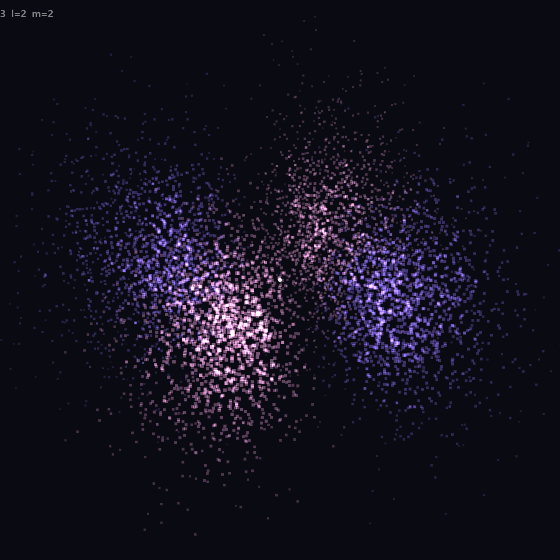
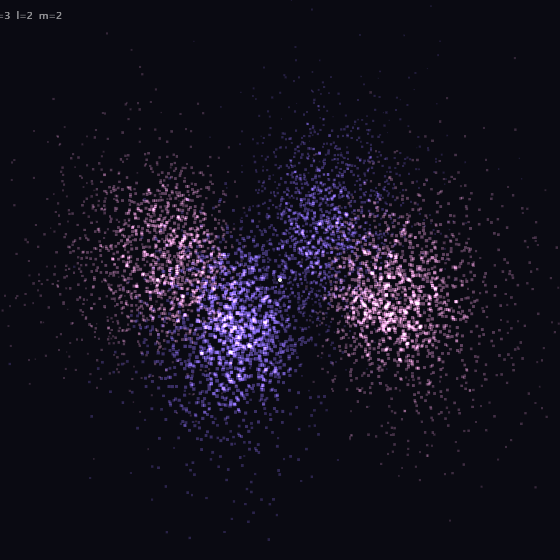
feat: rework Galton Board and Electron Cloud against the fuller spec
Galton Board gains a second_funnel toggle: half the balls drop from an offset
column, shifting one binomial sideways so the pile becomes genuinely bimodal.
The overlaid prediction becomes the mixture of the two binomials, so it still
matches what the board is doing. burst is renamed drop_batch and now releases a
proper 250-ball batch.

Electron Cloud now exposes n, l and m as independent knobs that clamp against
each other (l < n, m <= l), so only states that exist can be selected. The
hand-written radial cases are replaced by the generalised Laguerre recurrence,
giving every (n, l) in range its correct number of radial nodes, and the angular
part is extended through l = 4. slice_view renders a cross-section of |psi|^2
through the plane containing the quantisation axis as a contour map, cached on
state so it is not resampled every frame.

diff --git a/src/App.tsx b/src/App.tsx
@@ -10275,10 +10275,14 @@ export default function App() {
               const memory = Math.max(0, Math.min(1, ms.bin_memory ?? 0.85));
 
               const st = (galtonStateRef.current[layer.id] ||= { acts: {}, parts: [], bins: null, spawnAcc: 0, invertT: -99 });
-              if (actionFired(st.acts, 'burst', Number(ms.burst ?? 0))) st.burstN = (st.burstN ?? 0) + 90;
+              if (actionFired(st.acts, 'burst', Number(ms.drop_batch ?? 0))) st.burstN = (st.burstN ?? 0) + 250;
+              if (actionFired(st.acts, 'fun2', Number(ms.second_funnel ?? 0))) st.second = !st.second;
               if (actionFired(st.acts, 'inv', Number(ms.invert_gravity ?? 0))) st.invertT = nowSec + 2.5;
               const inverted = nowSec < st.invertT;
 
+              // A second funnel drops half the balls from an offset column, which shifts
+              // one binomial sideways and makes the pile genuinely bimodal.
+              const offCols = -Math.max(2, Math.round(rows * 0.34));
               const nBins = rows + 1;
               if (!st.bins || st.bins.length !== nBins) st.bins = new Float32Array(nBins);
 
@@ -10298,7 +10302,8 @@ export default function App() {
               st.spawnAcc -= toSpawn;
               if (st.burstN > 0) { const b = Math.min(st.burstN, 14); toSpawn += b; st.burstN -= b; }
               for (let i = 0; i < toSpawn && st.parts.length < 1400; i++) {
-                  st.parts.push({ x: cx + (Math.random() - 0.5) * colGap * 0.12, y: topY - rowGap * 0.8, vx: 0, vy: 0, row: 0, done: false });
+                  const off = st.second && Math.random() < 0.5 ? offCols : 0;
+                  st.parts.push({ x: cx + (off + (Math.random() - 0.5) * 0.12) * colGap, y: topY - rowGap * 0.8, vx: 0, vy: 0, row: 0, done: false });
               }
 
               // The physical point: each peg is one Bernoulli trial, so the pile of
@@ -10340,6 +10345,20 @@ export default function App() {
 
               ctx.fillStyle = cBg; ctx.fillRect(0, 0, targetW, targetH);
 
+              // funnel mouths
+              ctx.strokeStyle = cPart; ctx.globalAlpha = 0.5; ctx.lineWidth = 2 * sc;
+              const mouths = st.second ? [0, offCols] : [0];
+              for (const mo of mouths) {
+                  const mx = cx + mo * colGap, my = topY - rowGap * 1.25;
+                  ctx.beginPath();
+                  ctx.moveTo(mx - colGap * 0.9, my - rowGap * 0.55);
+                  ctx.lineTo(mx - colGap * 0.16, my);
+                  ctx.lineTo(mx + colGap * 0.16, my);
+                  ctx.lineTo(mx + colGap * 0.9, my - rowGap * 0.55);
+                  ctx.stroke();
+              }
+              ctx.globalAlpha = 1;
+
               // pegs
               ctx.fillStyle = cPeg;
               ctx.globalAlpha = 0.55;
@@ -10367,11 +10386,17 @@ export default function App() {
               ctx.beginPath();
               const pRight = 0.5 + bias * 0.45;
               const lnFact = (n: number) => { let v = 0; for (let k = 2; k <= n; k++) v += Math.log(k); return v; };
+              const binom = (k: number) => {
+                  if (k < 0 || k > rows) return 0;
+                  return Math.exp(lnFact(rows) - lnFact(k) - lnFact(rows - k)
+                      + k * Math.log(pRight + 1e-9) + (rows - k) * Math.log(1 - pRight + 1e-9));
+              };
               let maxPk = 0;
               const pk: number[] = [];
               for (let i = 0; i < nBins; i++) {
-                  const lp = lnFact(rows) - lnFact(i) - lnFact(rows - i) + i * Math.log(pRight + 1e-9) + (rows - i) * Math.log(1 - pRight + 1e-9);
-                  const v = Math.exp(lp);
+                  // With two funnels the prediction is the mixture of the two binomials,
+                  // so the overlay still matches what the board is actually doing.
+                  const v = st.second ? 0.5 * binom(i) + 0.5 * binom(i - offCols) : binom(i);
                   pk.push(v); if (v > maxPk) maxPk = v;
               }
               for (let i = 0; i < nBins; i++) {
@@ -10401,63 +10426,73 @@ export default function App() {
               const cPos = resolvedGenerativeColors['lobe_pos'] || '#8b6cf0';
               const cNeg = resolvedGenerativeColors['lobe_neg'] || '#f0a0d8';
               const cNuc = resolvedGenerativeColors['nucleus'] || '#ffffff';
-              const rgbP = hexToRgb(cPos), rgbN = hexToRgb(cNeg);
+              const rgbP = hexToRgb(cPos), rgbN = hexToRgb(cNeg), rgbBg = hexToRgb(cBg);
 
-              // (n, l, m) in the order a spectroscopist would meet them.
-              const ORBITALS: [number, number, number, string][] = [
-                  [1, 0, 0, '1s'], [2, 0, 0, '2s'], [2, 1, 0, '2p'], [3, 1, 1, '3p'],
-                  [3, 2, 0, '3d'], [3, 2, 2, '3d'], [4, 2, 1, '4d'], [4, 3, 0, '4f'], [4, 3, 3, '4f'],
-              ];
-              const st = (electronStateRef.current[layer.id] ||= { acts: {}, pts: null, idx: -1, pulseT: -99, spin: 0 });
-              if (actionFired(st.acts, 'exc', Number(ms.excite ?? 0))) st.bump = ((st.bump ?? 0) + 1) % ORBITALS.length;
-              if (actionFired(st.acts, 'pul', Number(ms.energy_pulse ?? 0))) st.pulseT = nowSec;
-
-              const sel = (Math.round(ms.orbital ?? 3) + (st.bump ?? 0)) % ORBITALS.length;
-              const [nQ, lQ, mQ, label] = ORBITALS[sel];
+              // l < n and m <= l are the only states that exist, so the knobs clamp
+              // against each other rather than producing a nonsense wavefunction.
+              const nQ = Math.max(1, Math.min(5, Math.round(ms.energy_level_n ?? 3)));
+              const lQ = Math.max(0, Math.min(nQ - 1, Math.round(ms.orbital_l ?? 2)));
+              const mQ = Math.max(0, Math.min(lQ, Math.round(ms.magnetic_m ?? 2)));
               const jitter = Math.max(0, Math.min(1, ms.uncertainty ?? 0.25));
-              const rScale = Math.max(0.3, Math.min(2, ms.radial_scale ?? 1));
-              const density = Math.max(0.1, Math.min(1, ms.density ?? 0.6));
               const spin = Math.max(-2, Math.min(2, ms.spin_speed ?? 0.35));
+              const density = Math.max(0.1, Math.min(1, ms.density ?? 0.6));
 
-              // Real angular parts: |Y_lm| shapes for the orbitals above, and a radial
-              // envelope with the n-l-1 nodes hydrogen actually has.
+              const st = (electronStateRef.current[layer.id] ||= { acts: {}, pts: null, key: '', pulseT: -99, spin: 0, slice: false });
+              if (actionFired(st.acts, 'pul', Number(ms.energy_pulse ?? 0))) st.pulseT = nowSec;
+              if (actionFired(st.acts, 'sli', Number(ms.slice_view ?? 0))) st.slice = !st.slice;
+
+              // Real spherical harmonics, unnormalised: only the shape and the sign of
+              // each lobe matter for a density picture.
               const angular = (l: number, m: number, ct: number, phi: number) => {
-                  const stt = Math.sqrt(Math.max(0, 1 - ct * ct));
+                  const s = Math.sqrt(Math.max(0, 1 - ct * ct));
+                  const c2 = ct * ct;
                   if (l === 0) return 1;
-                  if (l === 1) return m === 0 ? ct : stt * Math.cos(phi);
+                  if (l === 1) return m === 0 ? ct : s * Math.cos(phi);
                   if (l === 2) {
-                      if (m === 0) return 0.5 * (3 * ct * ct - 1);
-                      if (m === 1) return stt * ct * Math.cos(phi);
-                      return stt * stt * Math.cos(2 * phi);
+                      if (m === 0) return 0.5 * (3 * c2 - 1);
+                      if (m === 1) return s * ct * Math.cos(phi);
+                      return s * s * Math.cos(2 * phi);
                   }
-                  if (m === 0) return 0.5 * ct * (5 * ct * ct - 3);
-                  return stt * stt * stt * Math.cos(3 * phi);
+                  if (l === 3) {
+                      if (m === 0) return 0.5 * ct * (5 * c2 - 3);
+                      if (m === 1) return s * (5 * c2 - 1) * Math.cos(phi);
+                      if (m === 2) return s * s * ct * Math.cos(2 * phi);
+                      return s * s * s * Math.cos(3 * phi);
+                  }
+                  if (m === 0) return (35 * c2 * c2 - 30 * c2 + 3) / 8;
+                  if (m === 1) return s * ct * (7 * c2 - 3) * Math.cos(phi);
+                  if (m === 2) return s * s * (7 * c2 - 1) * Math.cos(2 * phi);
+                  if (m === 3) return s * s * s * ct * Math.cos(3 * phi);
+                  return s * s * s * s * Math.cos(4 * phi);
+              };
+              // Generalised Laguerre by its standard recurrence, so every (n, l) in range
+              // gets the right number of radial nodes instead of a hand-written case.
+              const laguerre = (k: number, alpha: number, x: number) => {
+                  let lm1 = 0, l0 = 1;
+                  for (let i = 0; i < k; i++) {
+                      const l1 = ((2 * i + 1 + alpha - x) * l0 - (i + alpha) * lm1) / (i + 1);
+                      lm1 = l0; l0 = l1;
+                  }
+                  return l0;
               };
               const radial = (r: number, n: number, l: number) => {
                   const rho = 2 * r / n;
-                  let poly = 1;
-                  const nodes = n - l - 1;
-                  if (nodes === 1) poly = 1 - rho / 2;
-                  else if (nodes === 2) poly = 1 - rho + rho * rho / 6;
-                  else if (nodes === 3) poly = 1 - 1.5 * rho + 0.6 * rho * rho - rho * rho * rho / 24;
-                  return Math.pow(rho, l) * poly * Math.exp(-rho / 2);
+                  return Math.pow(rho, l) * Math.exp(-rho / 2) * laguerre(n - l - 1, 2 * l + 1, rho);
               };
+              const psiAt = (r: number, ct: number, phi: number) => radial(r, nQ, lQ) * angular(lQ, mQ, ct, phi);
 
-              // Rejection-sample the cloud once per orbital: the shape is static, only
-              // the viewing angle and jitter change per frame.
-              if (st.idx !== sel) {
-                  st.idx = sel;
-                  const rMax = 4 + nQ * nQ * 2.2;
+              const key = `${nQ}|${lQ}|${mQ}`;
+              if (st.key !== key) {
+                  st.key = key;
+                  const rMax = 6 + nQ * nQ * 2.6;
                   const draw = () => {
                       const r = Math.pow(Math.random(), 0.45) * rMax;
                       const ct = Math.random() * 2 - 1;
                       const phi = Math.random() * 6.283;
-                      const psi = radial(r, nQ, lQ) * angular(lQ, mQ, ct, phi);
+                      const psi = psiAt(r, ct, phi);
                       return { r, ct, phi, psi, p2: psi * psi * r * r };
                   };
-                  // Scan for the peak of |psi|^2 r^2 first, so the rejection test has the
-                  // same acceptance rate whatever orbital is selected.
-                  let pMax = 1e-9;
+                  let pMax = 1e-12;
                   for (let i = 0; i < 6000; i++) { const c = draw(); if (c.p2 > pMax) pMax = c.p2; }
                   const pts: any[] = [];
                   let guard = 0;
@@ -10465,58 +10500,111 @@ export default function App() {
                       const c = draw();
                       const q = c.p2 / pMax;
                       if (Math.random() < q) {
-                          const stt = Math.sqrt(Math.max(0, 1 - c.ct * c.ct));
+                          const s = Math.sqrt(Math.max(0, 1 - c.ct * c.ct));
                           pts.push({
-                              x: c.r * stt * Math.cos(c.phi), y: c.r * c.ct, z: c.r * stt * Math.sin(c.phi),
+                              x: c.r * s * Math.cos(c.phi), y: c.r * c.ct, z: c.r * s * Math.sin(c.phi),
                               s: Math.sign(c.psi) || 1, a: 0.35 + 0.65 * Math.sqrt(q),
                           });
                       }
                   }
-                  // Frame on where the density actually lives, not on the sampling
-                  // cut-off: most of a 3d cloud sits well inside rMax.
                   const radii = pts.map(p => Math.hypot(p.x, p.y, p.z)).sort((a, b) => a - b);
                   st.pts = pts;
                   st.rMax = rMax;
                   st.rView = radii[Math.floor(radii.length * 0.93)] || rMax;
+                  st.sliceMax = 0;
               }
 
               st.spin += dt * spin;
               const pulse = nowSec - st.pulseT < 1.2 ? Math.sin(Math.PI * (nowSec - st.pulseT) / 1.2) : 0;
-              const zoom = (Math.min(targetW, targetH) * 0.43) / (st.rView * rScale) * (1 + pulse * 0.35);
+              const zoom = (Math.min(targetW, targetH) * 0.43) / (st.rView * (1 + pulse * 0.45));
               const cx = targetW / 2, cy = targetH / 2;
-              const cosA = Math.cos(st.spin), sinA = Math.sin(st.spin);
 
               ctx.fillStyle = cBg; ctx.fillRect(0, 0, targetW, targetH);
-              ctx.globalCompositeOperation = 'lighter';
-              // Spin about the quantisation axis, then a fixed elevation so lobes that
-              // ring that axis are seen from three-quarters instead of edge-on.
-              const EL = 0.46, ce = Math.cos(EL), se = Math.sin(EL);
-              const jAmp = jitter * st.rView * 0.09;
-              for (const p of st.pts) {
-                  const px = p.x + jAmp * (Math.random() - 0.5);
-                  const py = p.y + jAmp * (Math.random() - 0.5);
-                  const pz = p.z + jAmp * (Math.random() - 0.5);
-                  const x1 = px * cosA - pz * sinA;
-                  const z1 = px * sinA + pz * cosA;
-                  const y2 = py * ce - z1 * se;
-                  const z2 = py * se + z1 * ce;
-                  const depth = 0.5 + 0.5 * (z2 / st.rView + 1) / 2;
-                  const sx = cx + x1 * zoom;
-                  const sy = cy - y2 * zoom;
-                  const rgb = p.s > 0 ? rgbP : rgbN;
-                  ctx.fillStyle = `rgba(${rgb.r},${rgb.g},${rgb.b},${(p.a * density * depth).toFixed(3)})`;
-                  const rad = (1 + p.a * 1.9) * sc * depth;
-                  ctx.fillRect(sx - rad, sy - rad, rad * 2, rad * 2);
-              }
-              ctx.globalCompositeOperation = 'source-over';
 
+              if (st.slice) {
+                  // Cross-section through the plane containing the quantisation axis:
+                  // the textbook probability-density map.
+                  const gw = 260, gh = Math.max(40, Math.round(gw * targetH / targetW));
+                  if (!st.sbuf || st.sbuf.width !== gw || st.sbuf.height !== gh) {
+                      st.sbuf = document.createElement('canvas'); st.sbuf.width = gw; st.sbuf.height = gh;
+                      st.simg = st.sbuf.getContext('2d')!.createImageData(gw, gh);
+                      st.sliceKey = '';
+                  }
+                  // The field only moves when the state or the pulse envelope changes, so
+                  // it is worth not recomputing 58k wavefunction samples every frame.
+                  const sliceKey = key + '|' + pulse.toFixed(2) + '|' + density.toFixed(2);
+                  const spx = st.simg.data;
+                  if (st.sliceKey !== sliceKey) {
+                  st.sliceKey = sliceKey;
+                  const unit = (st.rView * (1 + pulse * 0.45)) / (Math.min(gw, gh) * 0.43);
+                  let peak = 1e-12;
+                  const buf = new Float32Array(gw * gh);
+                  const sgn = new Int8Array(gw * gh);
+                  for (let gy = 0; gy < gh; gy++) {
+                      const Y = (gy - gh / 2) * unit * (gh / Math.min(gw, gh)) * -1;
+                      for (let gx = 0; gx < gw; gx++) {
+                          const X = (gx - gw / 2) * unit * (gw / Math.min(gw, gh));
+                          const r = Math.hypot(X, Y) + 1e-6;
+                          const psi = psiAt(r, Y / r, X >= 0 ? 0 : Math.PI);
+                          const v = psi * psi;
+                          buf[gy * gw + gx] = v;
+                          sgn[gy * gw + gx] = psi >= 0 ? 1 : -1;
+                          if (v > peak) peak = v;
+                      }
+                  }
+                  for (let i = 0; i < gw * gh; i++) {
+                      const u = Math.min(1, buf[i] / peak);
+                      // Gentle iso-banding on top of the ramp, so the map reads as a
+                      // contour plot rather than an undifferentiated glow.
+                      const band = 0.82 + 0.18 * Math.cos(Math.pow(u, 0.4) * 34);
+                      const t = Math.min(1, Math.pow(u, 0.33) * band * (0.45 + density * 0.75));
+                      const c = sgn[i] > 0 ? rgbP : rgbN;
+                      const o = i << 2;
+                      spx[o] = rgbBg.r + (c.r - rgbBg.r) * t;
+                      spx[o + 1] = rgbBg.g + (c.g - rgbBg.g) * t;
+                      spx[o + 2] = rgbBg.b + (c.b - rgbBg.b) * t;
+                      spx[o + 3] = 255;
+                  }
+                  st.sbuf.getContext('2d')!.putImageData(st.simg, 0, 0);
+                  }
+                  ctx.imageSmoothingEnabled = true;
+                  ctx.drawImage(st.sbuf, 0, 0, targetW, targetH);
+              } else {
+                  const cosA = Math.cos(st.spin), sinA = Math.sin(st.spin);
+                  ctx.globalCompositeOperation = 'lighter';
+                  // Spin about the quantisation axis, then a fixed elevation so lobes that
+                  // ring that axis are seen from three-quarters instead of edge-on.
+                  const EL = 0.46, ce = Math.cos(EL), se = Math.sin(EL);
+                  const jAmp = jitter * st.rView * 0.09;
+                  for (const p of st.pts) {
+                      const px = p.x + jAmp * (Math.random() - 0.5);
+                      const py = p.y + jAmp * (Math.random() - 0.5);
+                      const pz = p.z + jAmp * (Math.random() - 0.5);
+                      const x1 = px * cosA - pz * sinA;
+                      const z1 = px * sinA + pz * cosA;
+                      const y2 = py * ce - z1 * se;
+                      const z2 = py * se + z1 * ce;
+                      const depth = 0.5 + 0.5 * (z2 / st.rView + 1) / 2;
+                      const sx = cx + x1 * zoom;
+                      const sy = cy - y2 * zoom;
+                      const rgb = p.s > 0 ? rgbP : rgbN;
+                      ctx.fillStyle = `rgba(${rgb.r},${rgb.g},${rgb.b},${(p.a * density * depth).toFixed(3)})`;
+                      const rad = (1 + p.a * 1.9) * sc * depth;
+                      ctx.fillRect(sx - rad, sy - rad, rad * 2, rad * 2);
+                  }
+                  ctx.globalCompositeOperation = 'source-over';
+                  ctx.fillStyle = cNuc;
+                  ctx.globalAlpha = 0.9;
+                  ctx.beginPath(); ctx.arc(cx, cy, 2.5 * sc, 0, 6.283); ctx.fill();
+                  ctx.globalAlpha = 1;
+              }
+
+              const SHELL = 'spdfg';
               ctx.fillStyle = cNuc;
-              ctx.globalAlpha = 0.9;
-              ctx.beginPath(); ctx.arc(cx, cy, 2.5 * sc, 0, 6.283); ctx.fill();
-              ctx.globalAlpha = 0.5;
-              ctx.font = `600 ${Math.round(13 * sc)}px ui-sans-serif, system-ui, sans-serif`;
+              ctx.globalAlpha = 0.55;
+              ctx.font = `600 ${Math.round(14 * sc)}px ui-sans-serif, system-ui, sans-serif`;
               ctx.textAlign = 'left'; ctx.textBaseline = 'top';
-              ctx.fillText(`${label}   n=${nQ}  l=${lQ}  m=${mQ}`, 14 * sc, 12 * sc);
+              ctx.fillText(`${nQ}${SHELL[lQ]}   n=${nQ}  l=${lQ}  m=${mQ}${st.slice ? '   slice' : ''}`, 16 * sc, 14 * sc);
               ctx.globalAlpha = 1;
               element = canvas;
           } else if (def.uuid === 'n-body-1') {

diff --git a/src/lib/generatives.ts b/src/lib/generatives.ts
@@ -2218,7 +2218,8 @@ void main(void) {
     { "name": "elasticity", "min": 0, "max": 1, "default": 0.35, "type": "number" },
     { "name": "flow_rate", "min": 0.1, "max": 4, "default": 1, "type": "number" },
     { "name": "bin_memory", "min": 0, "max": 1, "default": 0.85, "type": "number" },
-    { "name": "burst", "default": 0, "type": "action" },
+    { "name": "drop_batch", "default": 0, "type": "action" },
+    { "name": "second_funnel", "default": 0, "type": "action" },
     { "name": "invert_gravity", "default": 0, "type": "action" }
   ],
   "elements": [
@@ -2240,13 +2241,14 @@ void main(void) {
   "movement": true,
   "defaultPaletteId": "aurora_glow",
   "parameters": [
-    { "name": "orbital", "min": 0, "max": 8, "default": 5, "type": "number" },
+    { "name": "energy_level_n", "min": 1, "max": 5, "default": 3, "type": "number" },
+    { "name": "orbital_l", "min": 0, "max": 4, "default": 2, "type": "number" },
+    { "name": "magnetic_m", "min": 0, "max": 4, "default": 2, "type": "number" },
     { "name": "uncertainty", "min": 0, "max": 1, "default": 0.25, "type": "number" },
-    { "name": "radial_scale", "min": 0.3, "max": 2, "default": 1, "type": "number" },
-    { "name": "density", "min": 0.1, "max": 1, "default": 0.6, "type": "number" },
     { "name": "spin_speed", "min": -2, "max": 2, "default": 0.35, "type": "number" },
-    { "name": "excite", "default": 0, "type": "action" },
-    { "name": "energy_pulse", "default": 0, "type": "action" }
+    { "name": "density", "min": 0.1, "max": 1, "default": 0.6, "type": "number" },
+    { "name": "energy_pulse", "default": 0, "type": "action" },
+    { "name": "slice_view", "default": 0, "type": "action" }
   ],
   "elements": [
     { "id": "background", "name": "Void", "defaultColor": "#0a0a12" },
